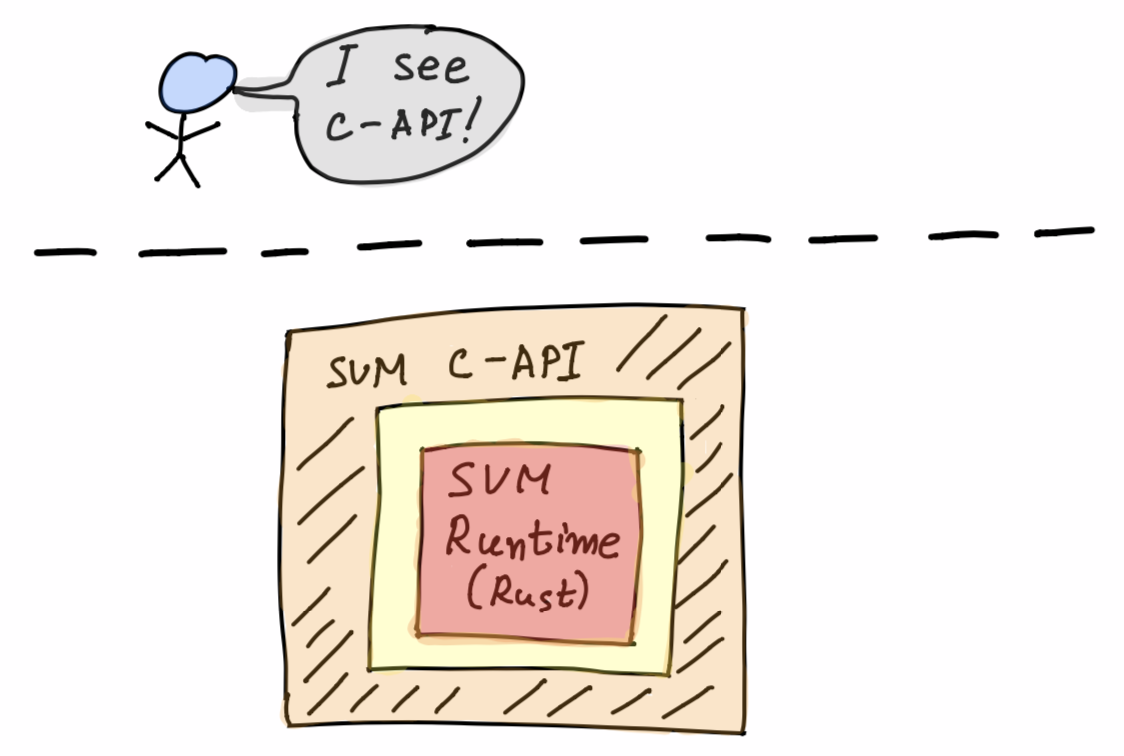
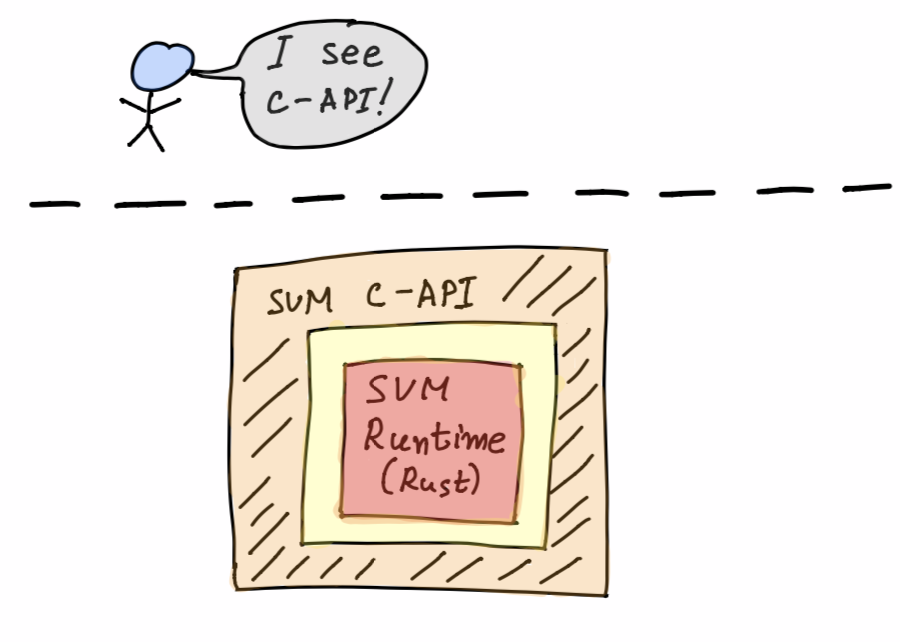
more images

diff --git a/content/post/svm.md b/content/post/svm.md
@@ -138,6 +138,10 @@ Then we'll mark the **page slice** as dirty. When committing smart contract chan
 commit only the dirty **page slices** which will translate to committing the associated dirty pages. Then we'll compute the new **page hash**
 for each committed dirty page and calculate the new **contract state**, returning it as part of the **execution receipt**.
 
+![svm-slices-before][svm-slices-before]
+<br/>
+<br/>
+![svm-slices-after][svm-slices-after]
 
 ### SVM Registers
 
@@ -329,7 +333,7 @@ I've given a talk about the motivation for having SMESH [here][Spacemesh smart c
 In this article, we've reviewed the work being done so far for **SVM - Spacemesh Virtual Machine**, and the motivation behind it.
 Then, we've talked about the next steps for SVM and mentioned SMESH, the future high-level programming-language that will compile to SVM WebAssembly code.
 
-In order to fulfill these ambitious goals, we've made room for more people :wink:
+In order to fulfill these ambitious goals, we've made room for more people to join...
 
 So if you're a Rust developer interested in compilation and programming-languages please don't shy away...
 
@@ -382,6 +386,8 @@ We'll also provide [gitcoin][spacemesh gitcoin] bounties :moneybag::moneybag: fo
 [svm-contract]: /images/svm-contract.png
 [svm-pages-before]: /images/svm-pages-before.png
 [svm-pages-after]: /images/svm-pages-after.png
+[svm-slices-before]: /images/svm-slices-before.png
+[svm-slices-after]: /images/svm-slices-after.png
 [svm-registers]: /images/svm-registers.png
 [svm-deploy]: /images/svm-deploy.png
 [svm-exec]: /images/svm-exec.png
